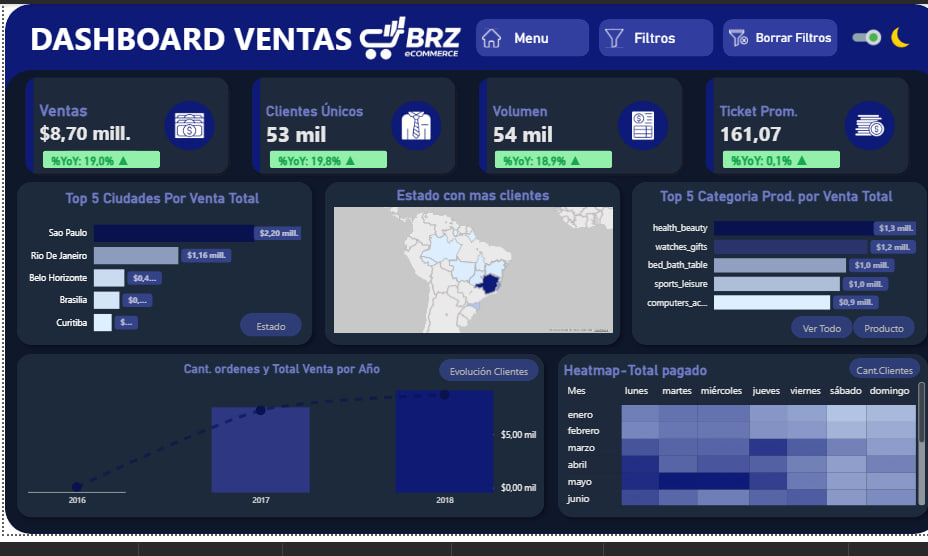
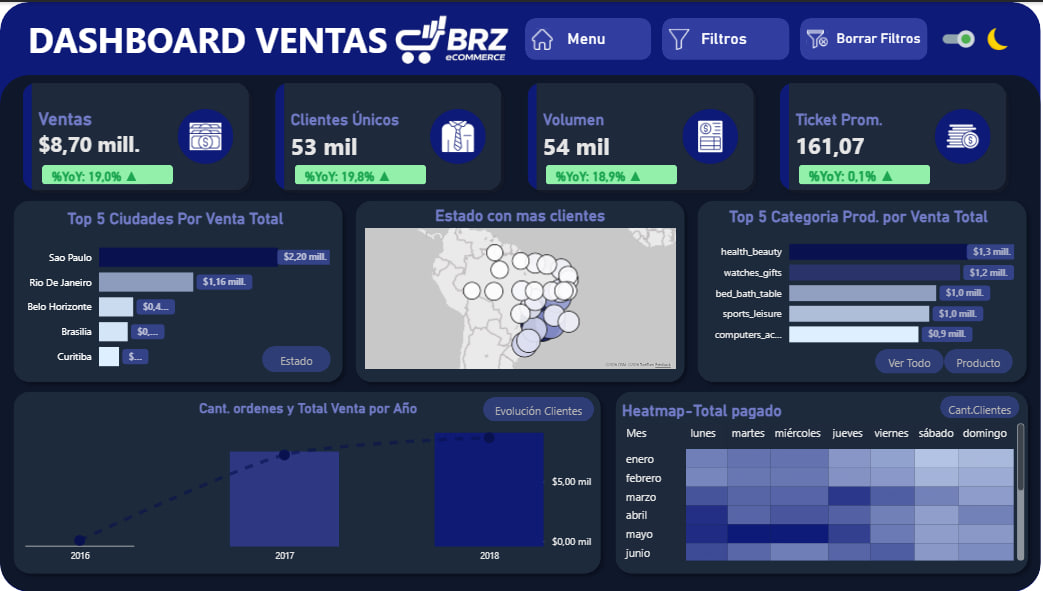
Update images and readme

diff --git a/README.md b/README.md
@@ -21,7 +21,7 @@
 
 | Recurso | Enlace |
 |---|---|
-| 📊 **Reporte interactivo** | [Ver reporte en Power BI Service](https://app.powerbi.com/view?r=eyJrIjoiYWRkZDZmNWQtZmM1Ni00OTlhLTllMmMtMzMwMjBlYjRkMTg2IiwidCI6IjE4YzQ0ODRlLWFmYjctNGFjYS04NDM1LWZmYzQwOGY0YjE3NiJ9) |
+| 📊 **Reporte interactivo** | [Ver reporte en Power BI Service](https://app.powerbi.com/view?r=eyJrIjoiYWRkZDZmNWQtZmM1Ni00OTlhLTllMmMtMzMwMjBlYjRkMTg2IiwidCI6IjE4YzQ0ODRlLWFmYjctNGFjYS04NDM1LWZmYzQwOGY0YjE3NiJ9&pageName=7a6c62f682e264b660a5) |
 | 📦 **Dataset original** | [Brazilian E-Commerce — Kaggle](https://www.kaggle.com/datasets/olistbr/brazilian-ecommerce) |
 
 ---
@@ -29,10 +29,10 @@
 ## 📊 Vista del Dashboard
 
 ### 💰 Vista General de Ventas — Ingresos, Ticket Promedio y KPIs Clave
-![Dashboard Ventas](screenshots/Ventas_2.png)
+![Dashboard Ventas](screenshots/Ventas_2.jpg)
 
 ### 🗺 Distribución Geográfica y Segmentación de Ventas por Región
-![Dashboard Ventas 2](screenshots/Ventas.png)
+![Dashboard Ventas 2](screenshots/Ventas.jpg)
 
 ### 📊 Rendimiento Operativo — Satisfacción, Logística y Eficiencia de Vendedores
 ![Dashboard Desempeño](screenshots/Desempeno.png)
@@ -52,7 +52,7 @@
 ---
 
 ### 💰 Vista General de Ventas — Dark Mode
-![Dashboard Ventas Dark Mode](screenshots/Ventas_Dark_mode.png)
+![Dashboard Ventas Dark Mode](screenshots/Ventas_Dark_mode.jpg)
 
 ### 🗺 Distribución Geográfica y Segmentación de Ventas — Dark Mode
 ![Dashboard Ventas 2 Dark Mode](screenshots/Ventas2_DarkMode.jpg)
@@ -356,9 +356,12 @@ Durante el modelado se realizaron cambios importantes para simplificar el modelo
 |---|---|
 | SP | 40,300 |
 | RJ | 12,380 |
-| RS | 5,280 |
+| MG | 11,259 |
 
-> **Insight:** El mercado está fuertemente liderado por la región sureste de Brasil. SP concentra el ~41% del total de clientes. Oportunidad de expansión en el norte y noreste, regiones con baja penetración y alta población potencial.
+> **Insight:** El mercado está fuertemente liderado por la región sureste 
+> de Brasil. SP concentra el ~42% del total de clientes únicos, seguido 
+> por RJ y MG. Oportunidad de expansión en el norte y noreste, regiones 
+> con baja penetración y alta población potencial.
 
 **3.1.2 — Crecimiento de nuevos clientes:**
 

diff --git a/README_SQL.md b/README_SQL.md
@@ -1272,13 +1272,17 @@ ORDER BY rango_tiempo_entrega;
 
 ---
 
-## 📬 Contacto
+<div align="center">
 
-**Joseph Velasco** — *Data Analyst | SQL Server · Power BI · Business Intelligence*
+## 🤝 Conectemos
 
-- 🔗 **LinkedIn:** [linkedin.com/in/Joseph_Velasco](https://linkedin.com/in/joseph-velasco)
-- 💼 **Portfolio:** [GoogleSites/JosephVelasco](https://sites.google.com/view/joseph-velasco-data-analyst/inicio?authuser=0)
-- 🐙 **GitHub:** [github.com/Joseph_Velasco](https://github.com/DatajosephVe)
+*Si buscas un analista que aporte una visión crítica y humana a tus datos, hablemos.*
 
----
+<br/>
 
+[![Email](https://img.shields.io/badge/📩_Correo-D14836?style=for-the-badge)](mailto:josephvelasco2223@gmail.com)
+[![LinkedIn](https://img.shields.io/badge/💼_LinkedIn-0A66C2?style=for-the-badge)](https://linkedin.com/in/joseph-velasco)
+[![Portafolio](https://img.shields.io/badge/🌐_Portafolio-0B2545?style=for-the-badge)](https://sites.google.com/view/joseph-velasco-data-analyst/inicio)
+[![CV](https://img.shields.io/badge/📄_Descargar_CV-134074?style=for-the-badge)](https://drive.google.com/file/d/12b6fu9ykucFDR12LD1fb1w6snUsg3mf5/view?usp=drive_link)
+
+</div>
